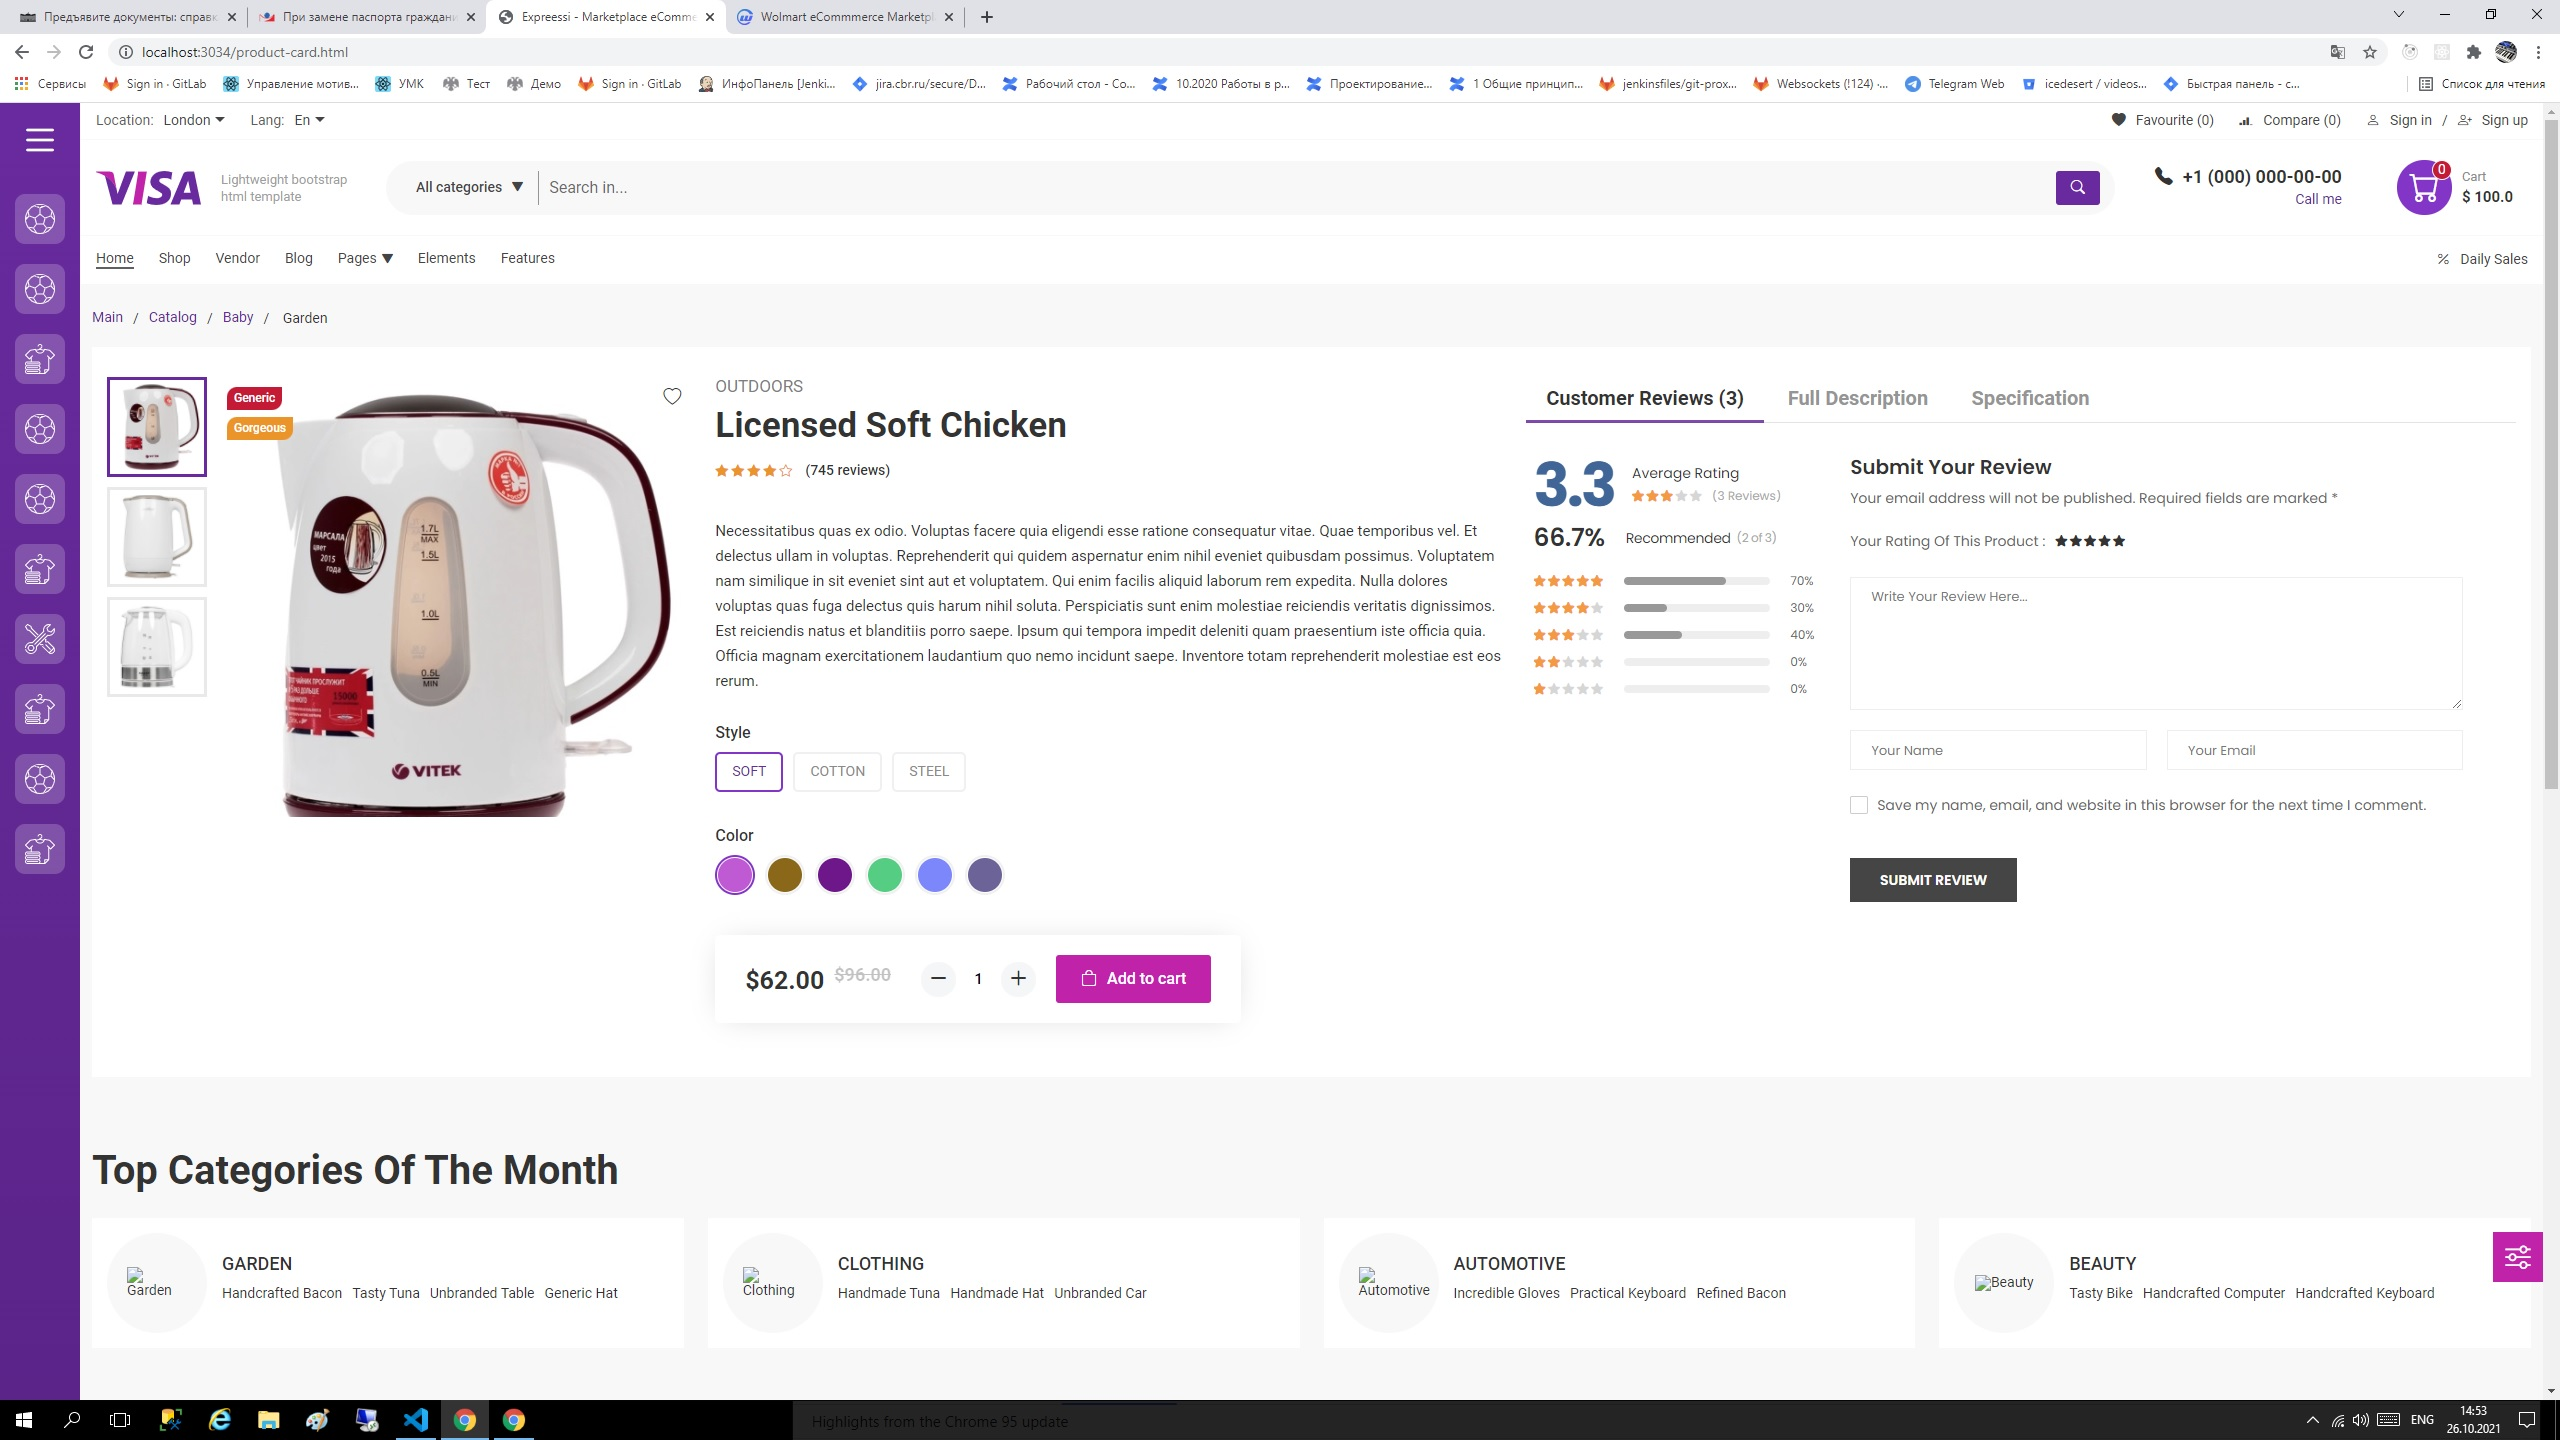
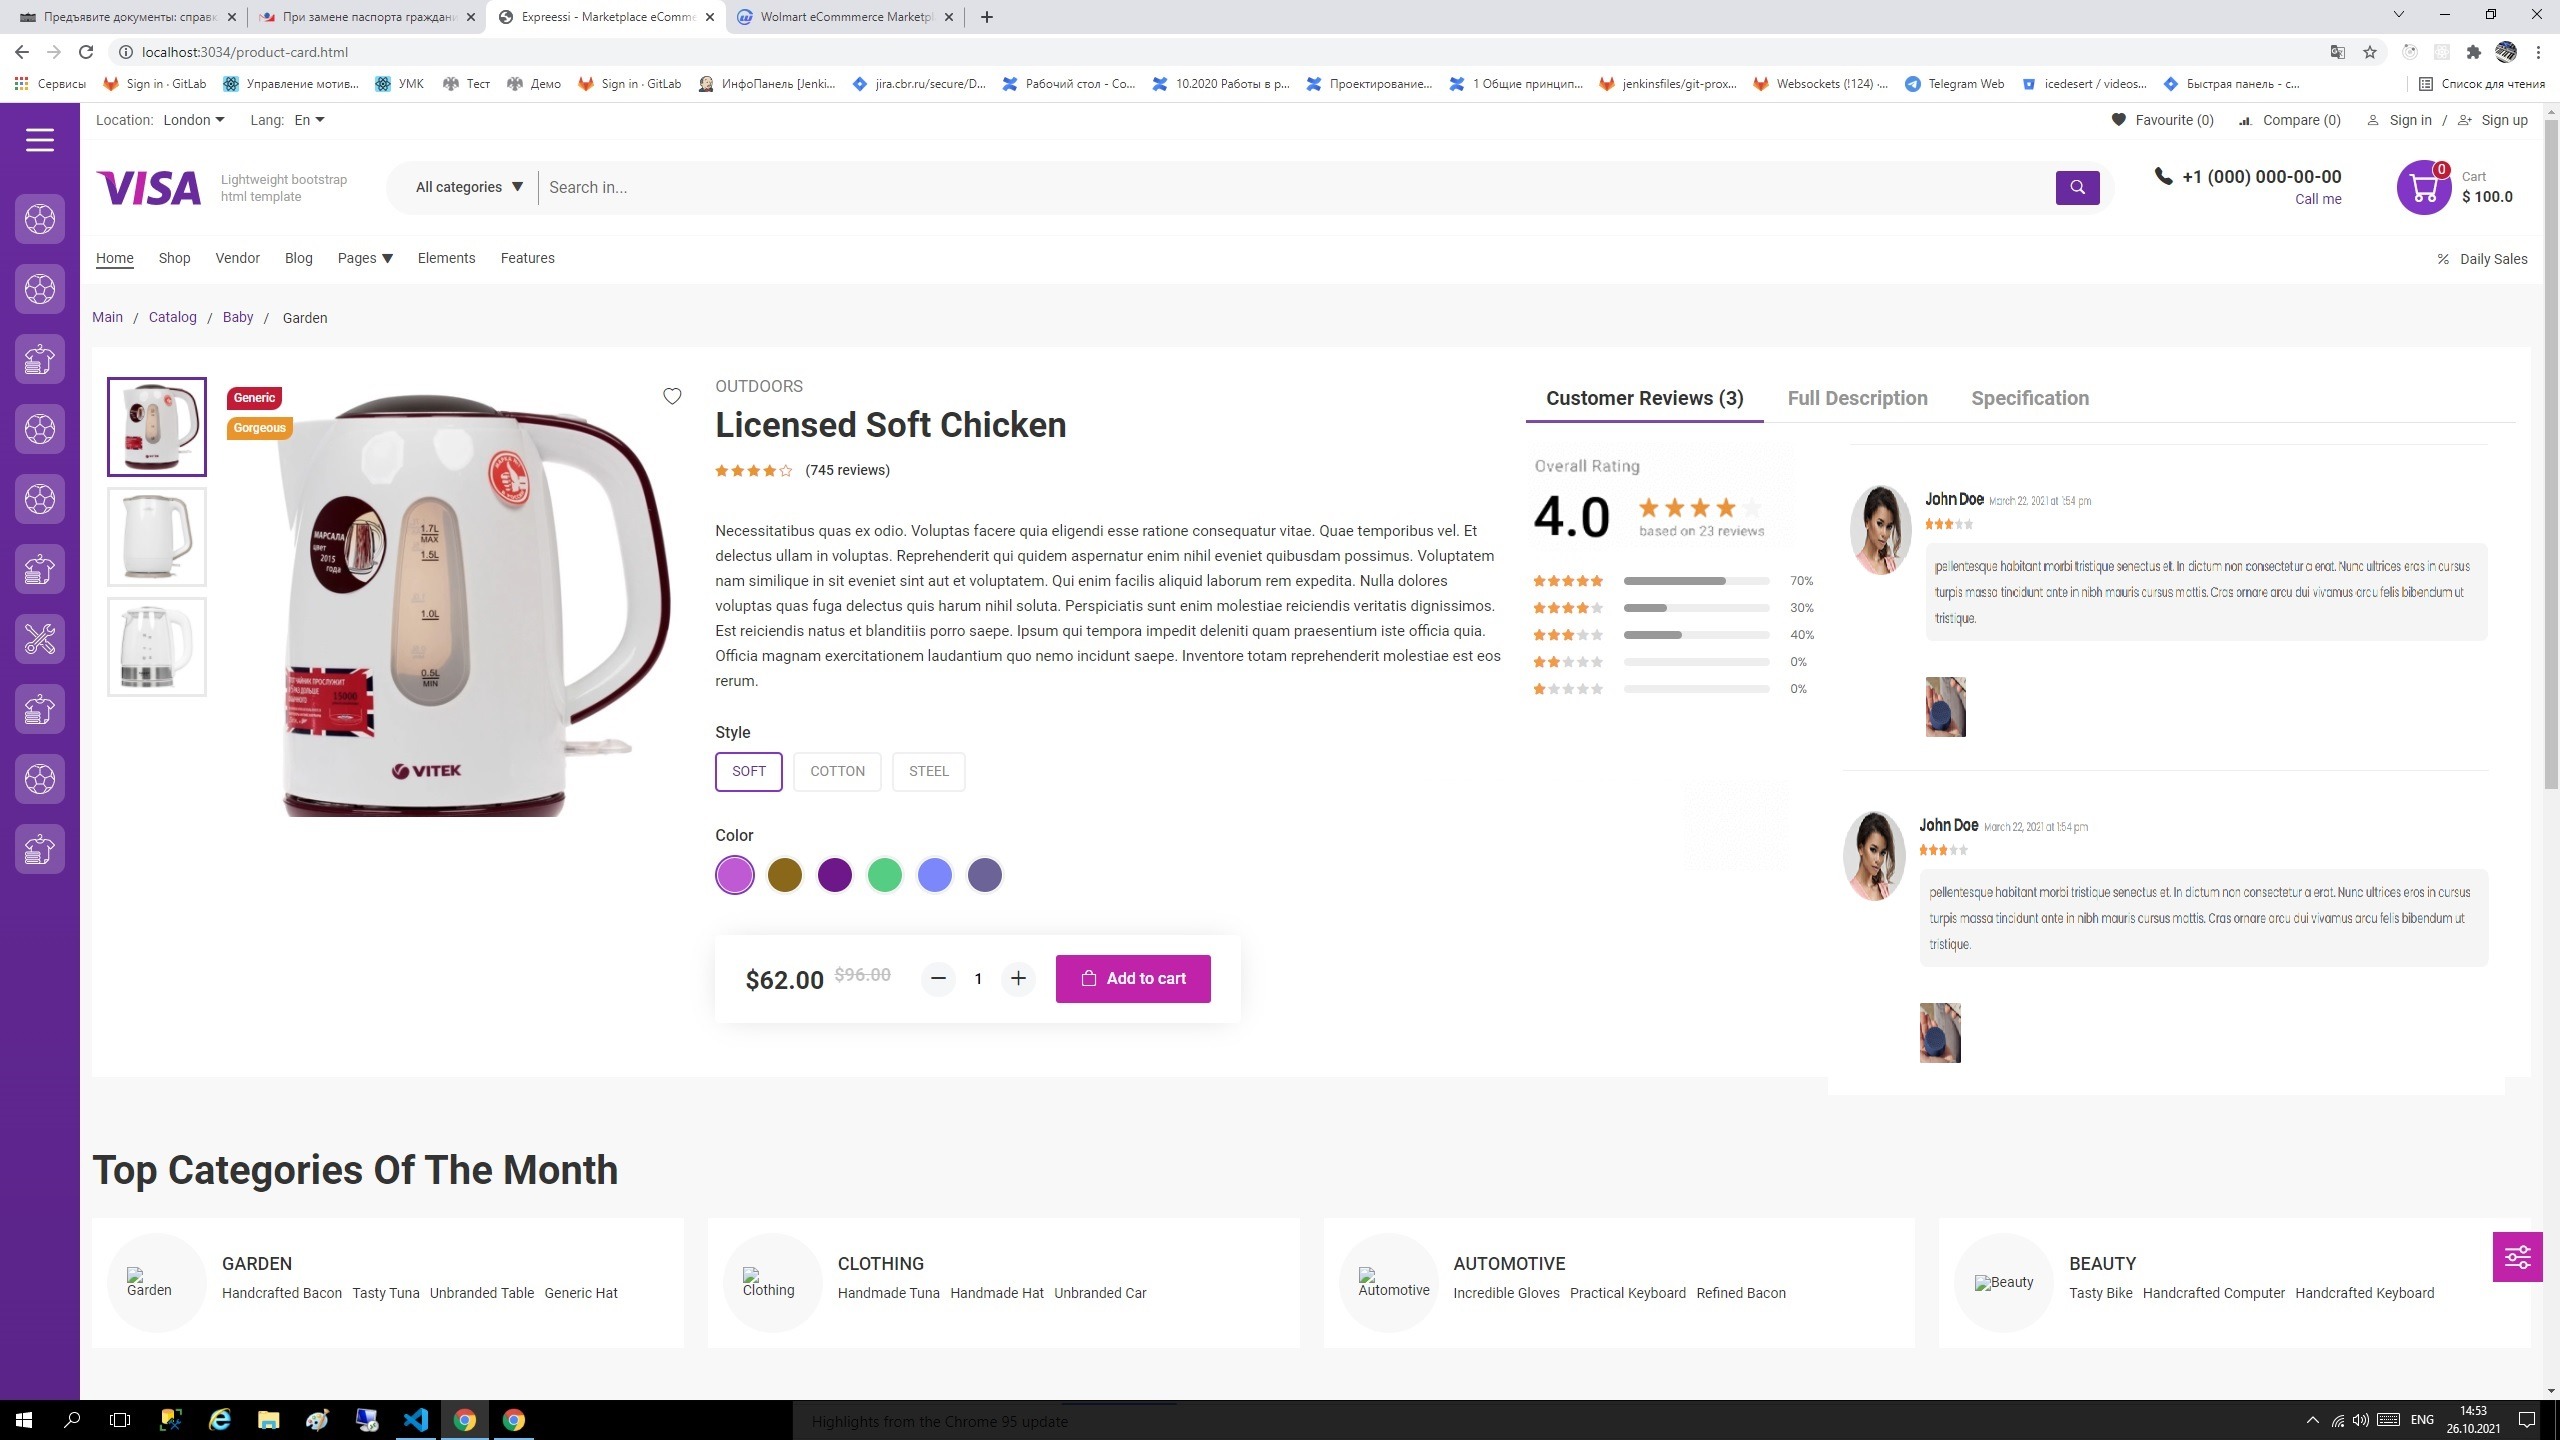
reviews summary

diff --git a/src/styles/components/reviews/reviews.less b/src/styles/components/reviews/reviews.less
@@ -1,0 +1,81 @@
+@import "../../variables.less";
+
+@reviewsClassName: reviews;
+
+@reviewsMutedColor: #7a7a7a;
+
+.@{reviewsClassName} {
+    &-label {
+        font-size: 16px;
+        margin-bottom: 10px;
+    }
+
+    &-overall {
+        display: flex;
+        align-items: center;
+        margin-bottom: 20px;
+
+        .@{reviewsClassName}-based {
+            .product-rate {
+                margin-bottom: 10px;
+
+                .product-rate-stars {
+                    font-size: 20px;
+                }
+            }
+        }
+    }
+
+    &-amount {
+        font-weight: 900;
+        font-size: 70px;
+        margin-right: 20px;
+    }
+
+    &-based {
+        color: @reviewsMutedColor;
+    }
+
+
+    &-details {
+        margin-bottom: 20px;
+
+        .@{reviewsClassName}-bar {
+            margin-bottom: 10px;
+
+            .@{reviewsClassName}-bar-value {
+                .product-rate {
+                    margin-bottom: 0px;
+                }
+            }
+        }
+    }
+
+    &-bar {
+        display: flex;
+        width: 100%;
+        justify-content: space-between;
+        align-items: center;
+
+        &-line {
+            background: #ececec;
+            flex: 1;
+            margin-left: 10px;
+            margin-right: 10px;
+            height: 10px;
+            border-radius: 10px;
+            overflow: hidden;
+
+            &-indicator {
+                background: @primary;
+                height: 100%;
+            }
+        }
+
+        &-percent {
+            color: @reviewsMutedColor;
+            width: 30px;
+            text-align: center;
+        }
+    }
+}

diff --git a/src/styles/components/reviews/rate.less b/src/styles/components/reviews/rate.less
@@ -1,0 +1,25 @@
+@import "../../variables.less";
+
+@rateClass: product-rate;
+
+.@{rateClass} {
+    display: flex;
+    align-items: center;
+    margin-bottom: 15px;
+
+    &-stars {
+        color: @warning;
+        display: flex;
+        align-items: center;
+        font-size: 13px;
+
+        .@{productClass}-rate-star {
+            margin-right: 3px;
+        }
+    }
+
+    &-amount {
+        font-weight: 500;
+        margin-left: 10px;
+    }
+}

diff --git a/src/styles/components/product/product-full.less b/src/styles/components/product/product-full.less
@@ -103,19 +103,8 @@
         cursor: default;
     }
 
-    .product-rate-wrapper {
-        display: flex;
-        align-items: center;
+    .product-rate {
         margin-bottom: 40px;
-
-        .product-rate {
-            margin-bottom: 0px;
-        }
-
-        .product-rate-label {
-            font-weight: 500;
-            margin-left: 10px;
-        }
     }
 
     .product-short-description {

diff --git a/src/styles/components/product/product.less b/src/styles/components/product/product.less
@@ -101,18 +101,6 @@
         }
     }
 
-    &-rate {
-        color: @warning;
-        display: flex;
-        align-items: center;
-        font-size: 13px;
-        margin-bottom: 15px;
-
-        .@{productClass}-rate-star {
-            margin-right: 3px;
-        }
-    }
-
     &-category {
         text-transform: uppercase;
         margin-bottom: 5px;

diff --git a/src/styles/index.less b/src/styles/index.less
@@ -41,6 +41,10 @@
 @import "./components/header/middle.less";
 @import "./components/header/bottom.less";
 
+// Reviews
+@import "./components/reviews/reviews.less";
+@import "./components/reviews/rate.less";
+
 // Product
 @import "./components/product/product.less";
 @import "./components/product/product-full.less";

diff --git a/webpack.config.js b/webpack.config.js
@@ -14,7 +14,7 @@ const HtmlReplaceWebpackPlugin = require("html-replace-webpack-plugin");
 
 const templateName = "expreessi";
 
-const defaultThemeName = "default";
+const defaultThemeName = "dark";
 
 module.exports = (_env, argv) => {
   const theme = argv.env.theme || defaultThemeName;
